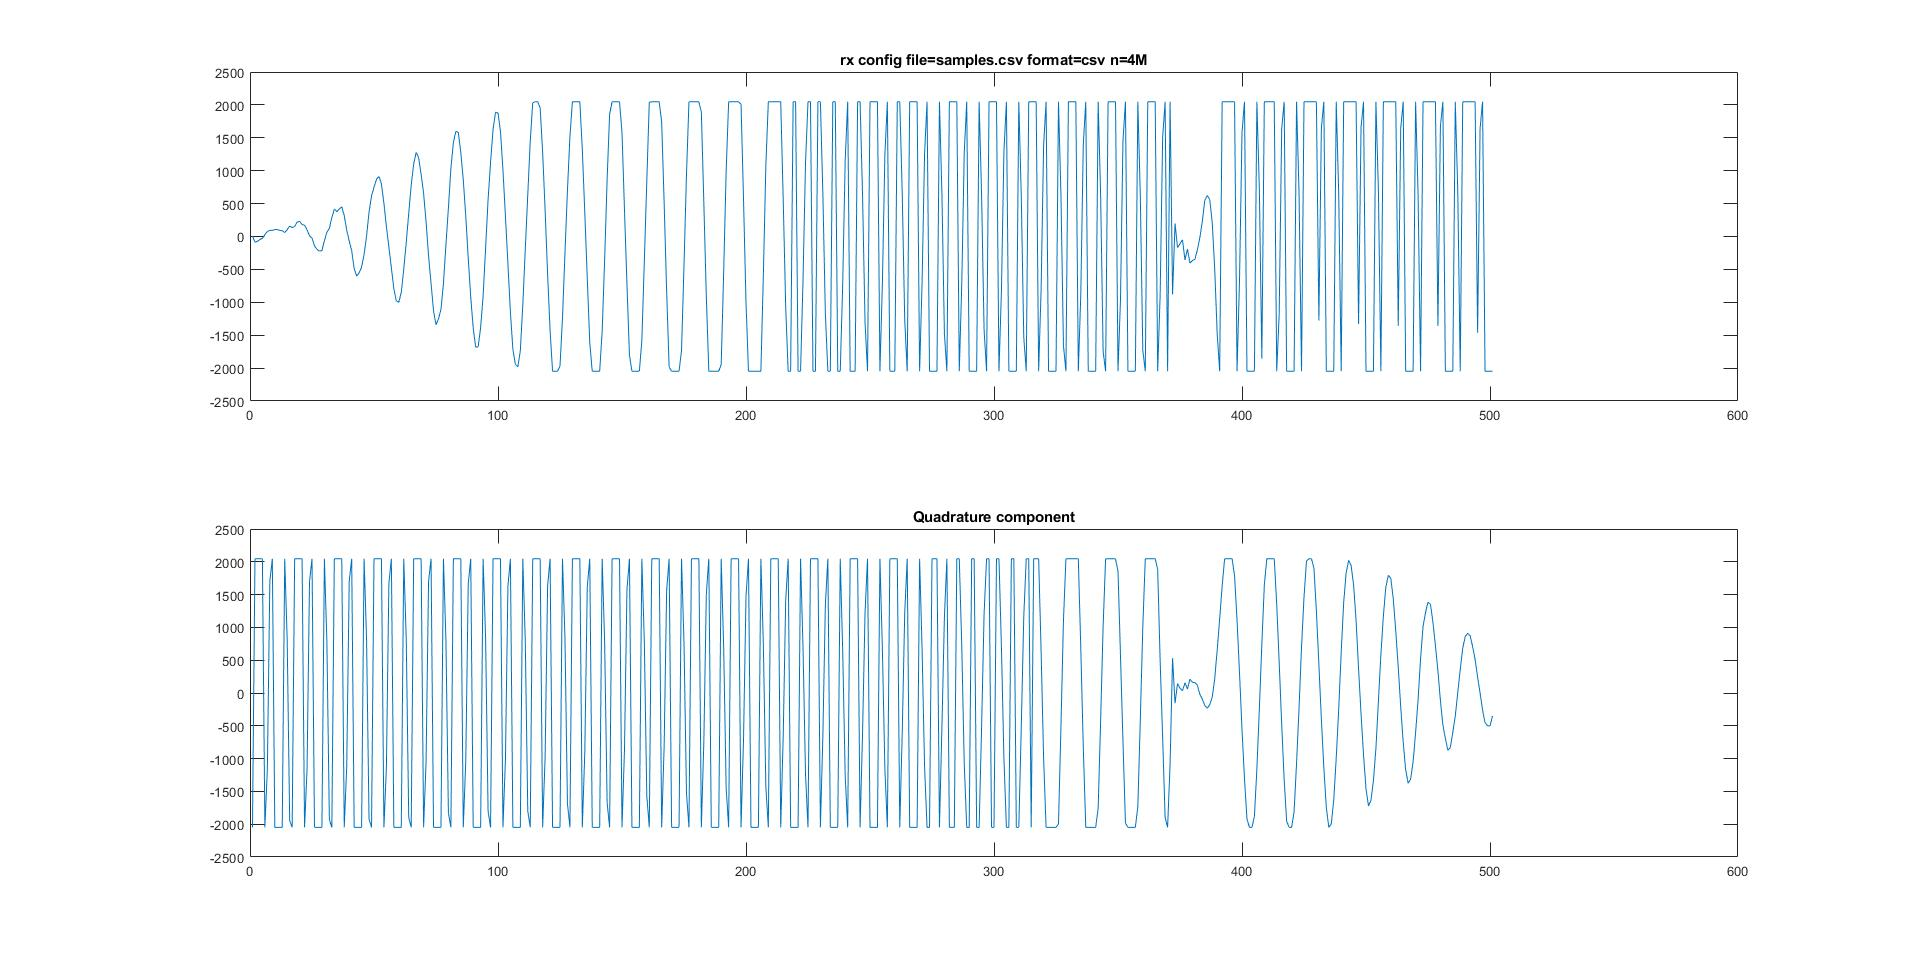
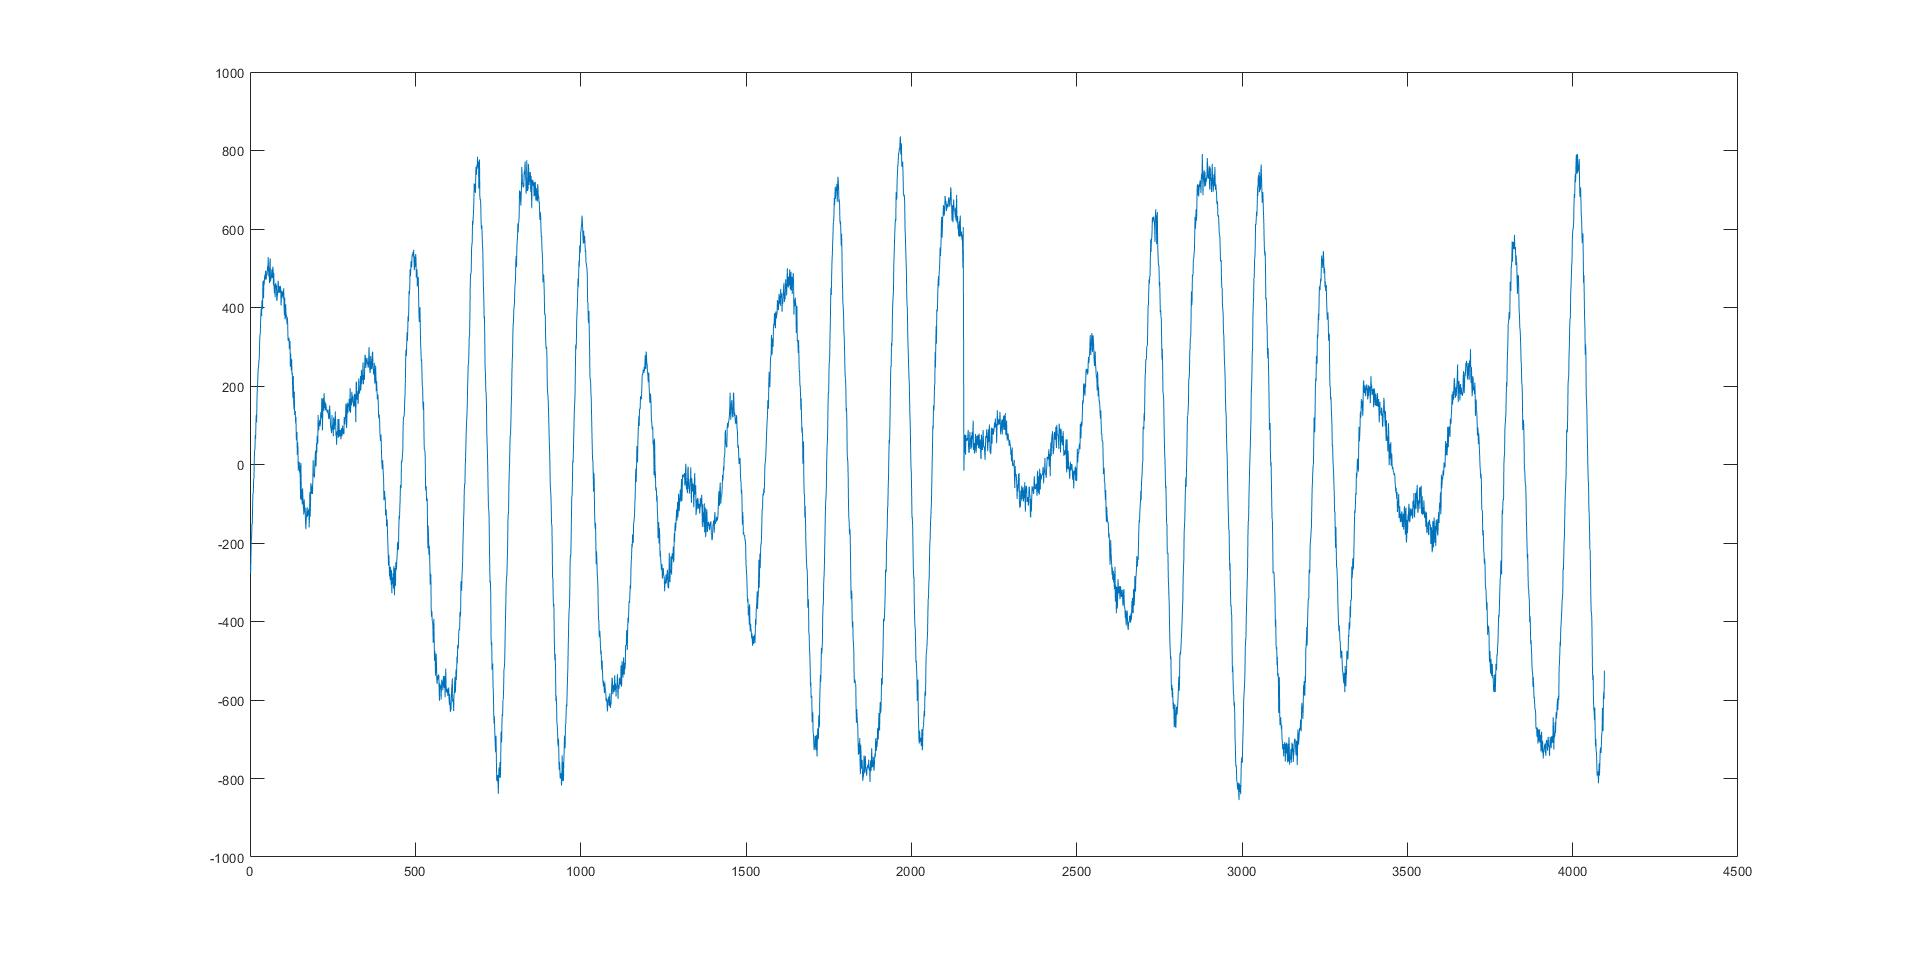
bladeRF received signals in windows

Changed region(s): [[0.0938, 0.0623, 0.8438, 0.8723], [0.7812, 0.5296, 0.8438, 0.5607], [0.0938, 0.1558, 0.125, 0.1869]]

diff --git a/Matlab/ExamineAlternating.m b/Matlab/ExamineAlternating.m
@@ -1,13 +1,41 @@
-%% single_RX_1 data, device arg bladerf=0 
+%% GRC single_RX_1 data, device arg bladerf=0
+figure(1)
 single_RX_1 = DataFromGRC('single_RX_1', 'complex');
-Nsamp = 8*40*2;                           % get little bit of samples
+Nsamp = 4096;                           % get little bit of samples
 single_RX_1 = single_RX_1(end-Nsamp:end); % get last samples recorded
-plot(real(single_RX_1)); grid on; xlabel("sample"); title("single RX 1 data; bladerf=0 ");
+plot(real(single_RX_1)); grid on; xlabel("sample"); title("single RX 1 data; bladerf=0,agc=1");
 
-%% dual_RX_1 data, device arg bladerf=0,nchan=2 
+%% GRC dual_RX_1 data, device arg bladerf=0,nchan=2 
+figure(2)
 dual_RX_1 = DataFromGRC('dual_RX_1', 'complex');
-Nsamp = 8*40*2;                           % get little bit of samples
+Nsamp = 4096;                           % get little bit of samples
 dual_RX_1 = dual_RX_1(end-Nsamp:end); % get last samples recorded
-plot(real(dual_RX_1)); grid on; xlabel("sample"); title("dual RX 1 data; bladerf=0,nchan=2");
+plot(real(dual_RX_1)); grid on; xlabel("sample"); title("GRC Channel 1: bladerf=0,nchan=2");
+figure(3)
+dual_RX_2 = DataFromGRC('dual_RX_2', 'complex');
+Nsamp = 4096;                           % get little bit of samples
+dual_RX_2 = dual_RX_2(end-Nsamp:end); % get last samples recorded
+plot(real(dual_RX_2)); grid on; xlabel("sample"); title("GRC Channel 2: bladerf=0,nchan=2");
+
+%% BladeRF-CLI single - First import single.csv
+figure(4)
+single1 = single{:,1};
+single2 = single{:,2};
+plot(single1);
+title('rx config file=samples.csv format=csv n=4k')
+
+%%  BladeRF-CLI dual - First import dual.csv
+figure(5)
+dual1 = dual{:,1};
+dual2 = dual{:,2};
+plot(dual1);
+title('Channel 1: rx config file=dual.csv format=csv n=8K channel=1,2');
+
+figure(6)
+dual3 = dual{:,3};
+dual4 = dual{:,4};
+plot(dual4);
+title('Channel 2: rx config file=dual.csv format=csv n=4K channel=1,2');
+
 
 
